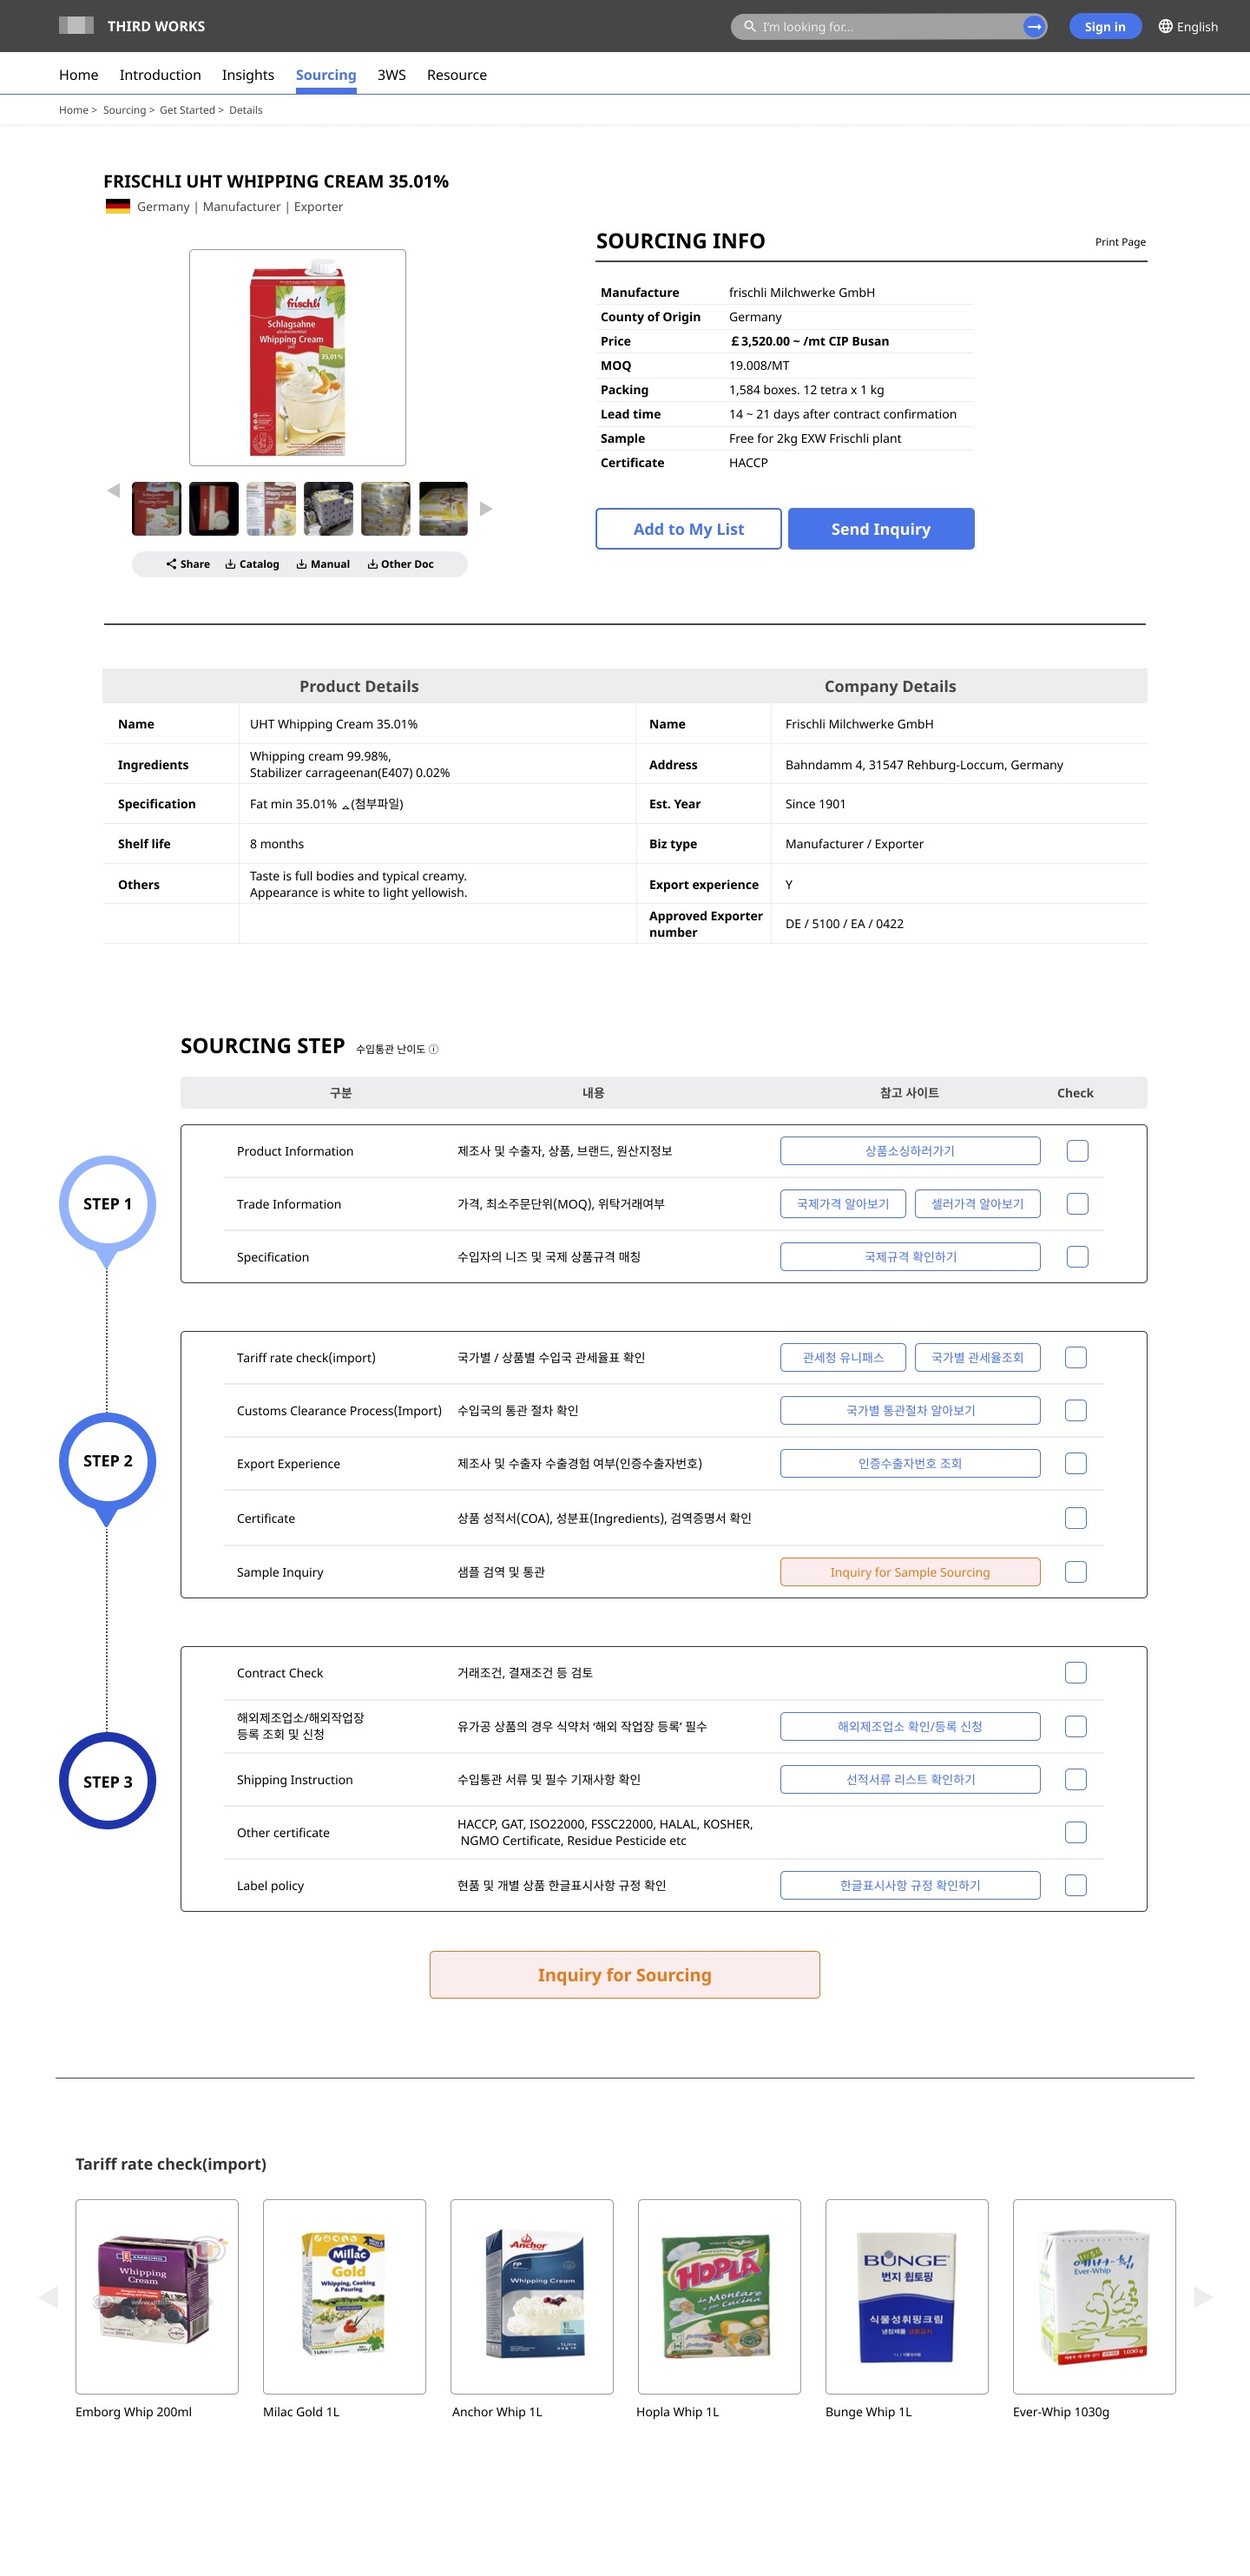
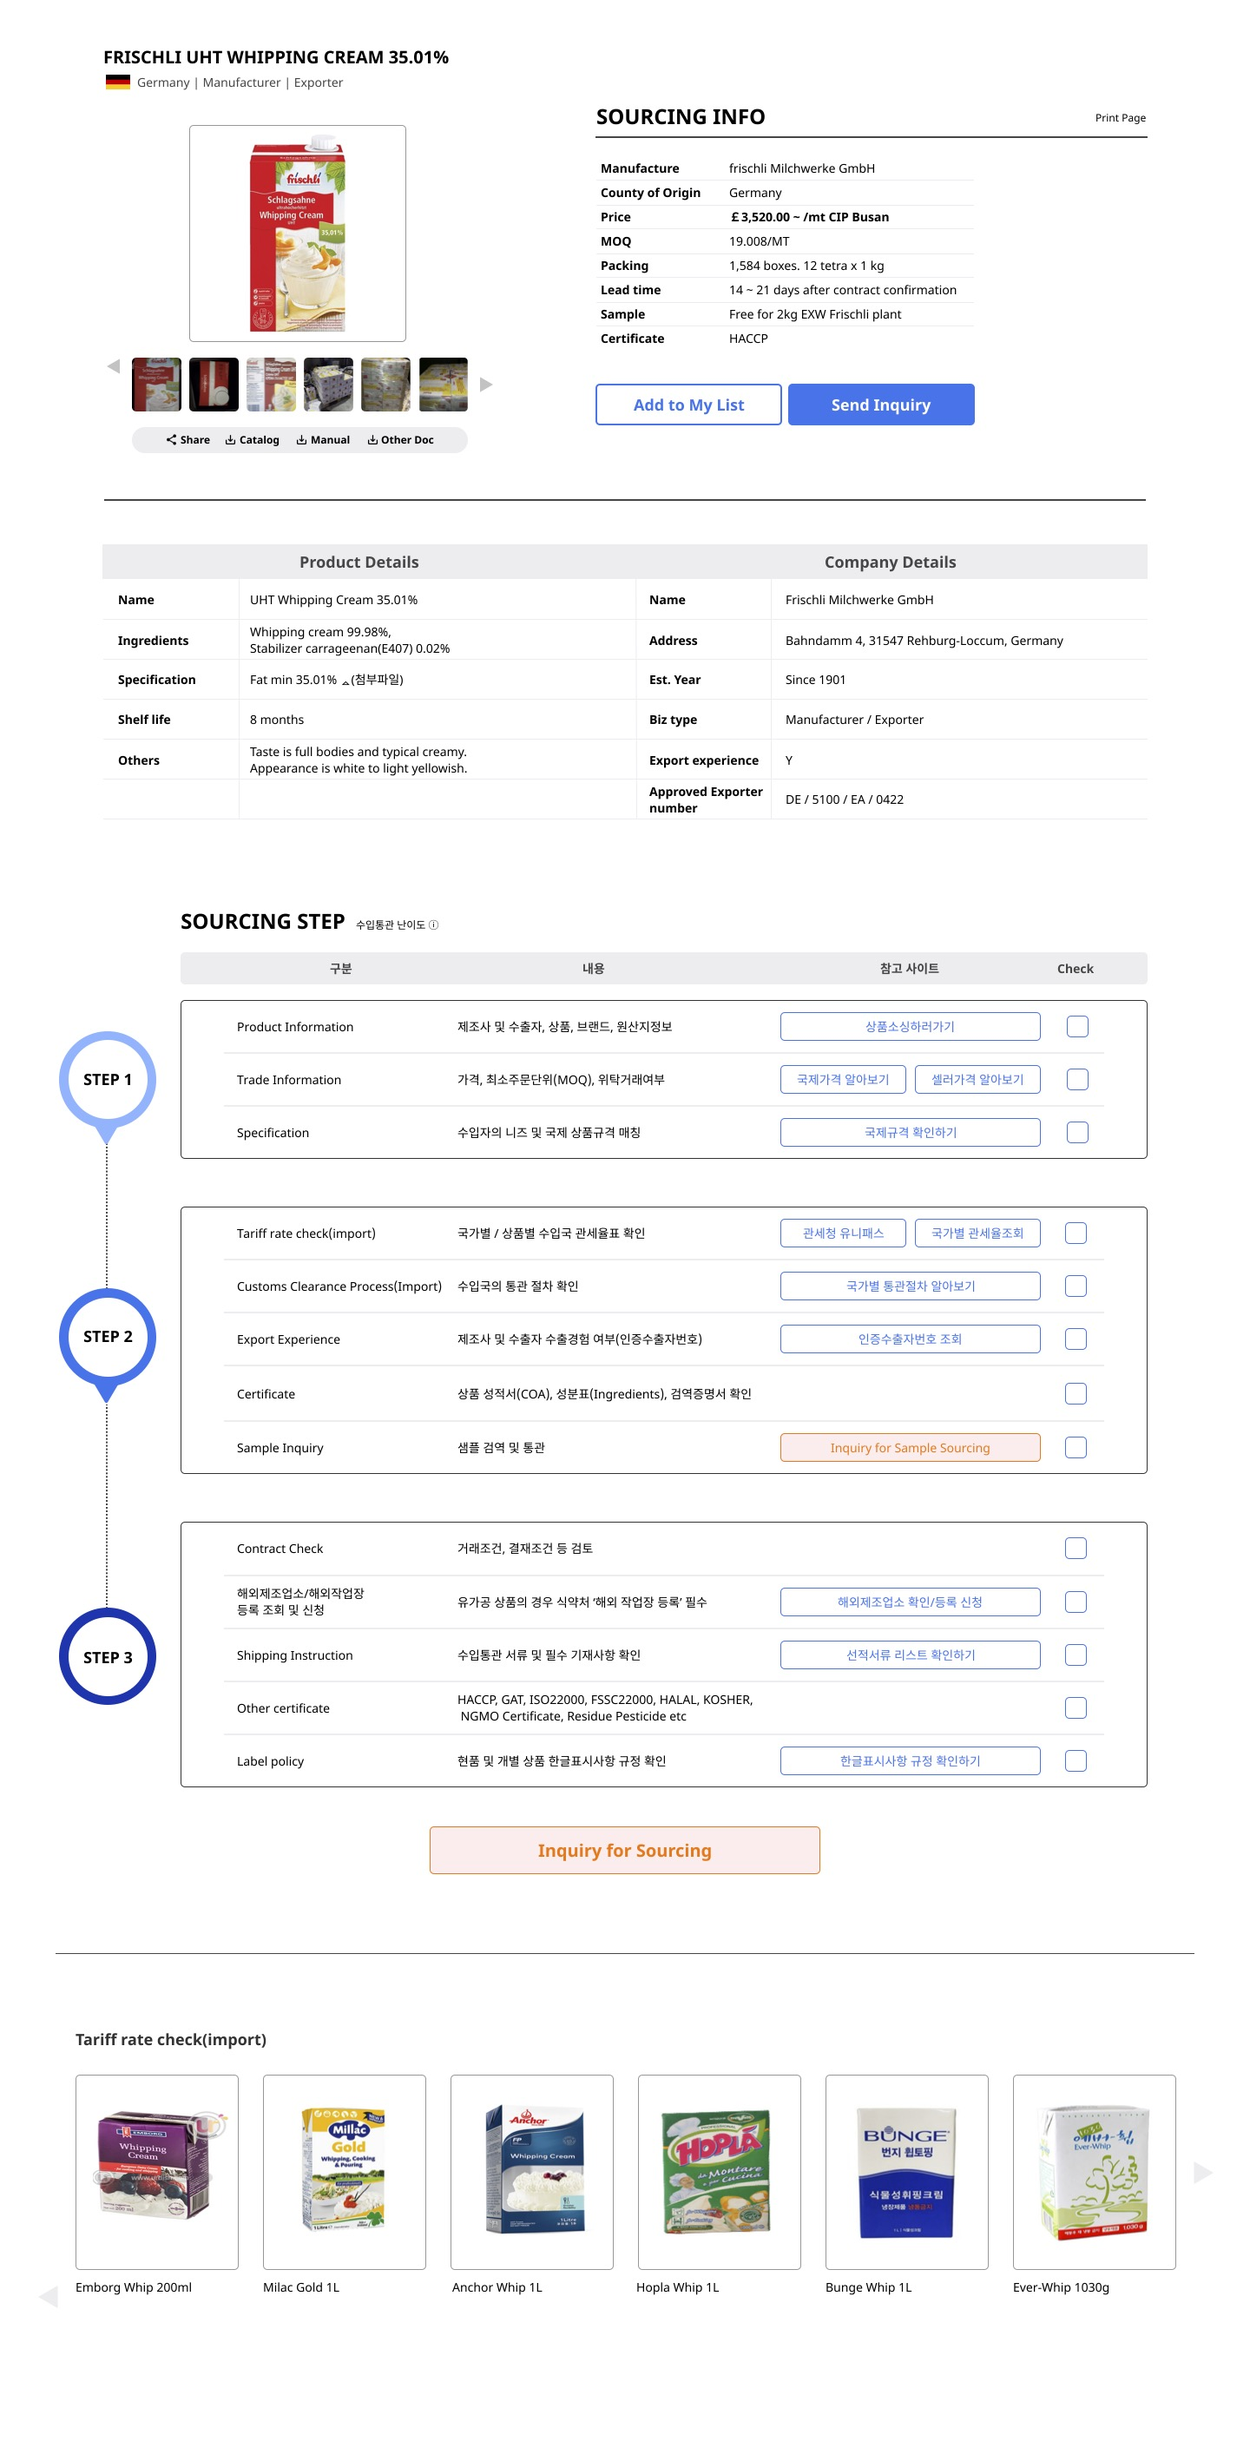
feat: detail 이미지 교체 및 클릭 연동

diff --git a/insights.html b/insights.html
@@ -65,7 +65,7 @@
         }
 
         chart-row > chart-layout {
-            width: 500px;
+            width: 501px;
             display: flex;
             flex-direction: column;
         }
@@ -412,14 +412,19 @@
                             <div id="title">국가별 수입통관 비중(%)</div>
                             <div id="date">’22년 2월 1주 기준</div>
                         </title-layout>
-                        <image-layout style="background-image: url(./images/insights_chart1.png);"></image-layout>
+                        
+                        <image-layout>
+                            <img src="./images/insights_chart1.jpg" width="500px" height="221px">
+                        </image-layout>
                     </chart-layout>
                     <chart-layout>
                         <title-layout>
                             <div id="title">국가별 수입통관 비중(%)</div>
                             <div id="date">’22년 2월 1주 기준</div>
                         </title-layout>
-                        <image-layout style="background-image: url(./images/insights_chart2.png);"></image-layout>
+                        <image-layout>
+                            <img src="./images/insights_chart2.jpg" width="500px" height="221px">
+                        </image-layout>
                     </chart-layout>
                 </chart-row>
                 <filter-layout>

diff --git a/details.html b/details.html
@@ -120,10 +120,10 @@
     </div>
     <limit-width style="height: 100%;">
         <main-body>
-            <img src="./images/details_sample.jpg" height="2997px" width="1440px" usemap="#unipass">
+            <img src="./images/details_sample.jpg" height="2827px" width="1440px" usemap="#unipass">
             <map name="unipass">
-                <area shape="rect" coords="850,1300, 1050,1500" href="https://unipass.customs.go.kr/csp/index.do" style="border:#2574ED solid 1px;">
-                <area shape="rect" coords="1060,1300, 1300,1500" href="https://unipass.customs.go.kr/clip/index.do" style="border:#2574ED solid 1px;">
+                <area shape="rect" coords="900,1220, 1050,1260" href="https://unipass.customs.go.kr/csp/index.do">
+                <area shape="rect" coords="1060,1220, 1200,1260" href="https://unipass.customs.go.kr/clip/index.do">
             </map>
         </main-body>
     </limit-width>
